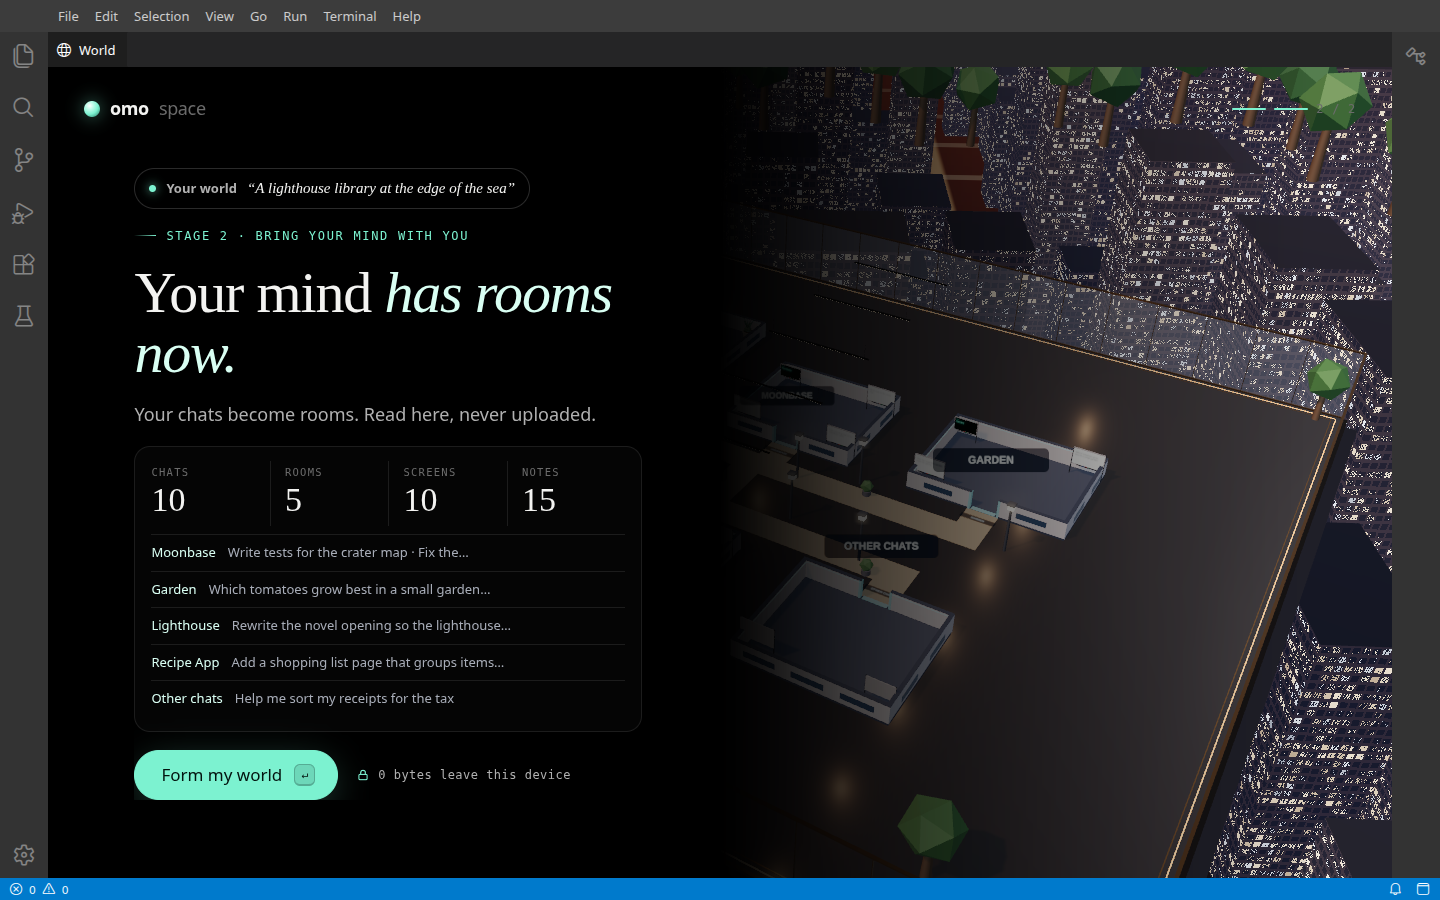
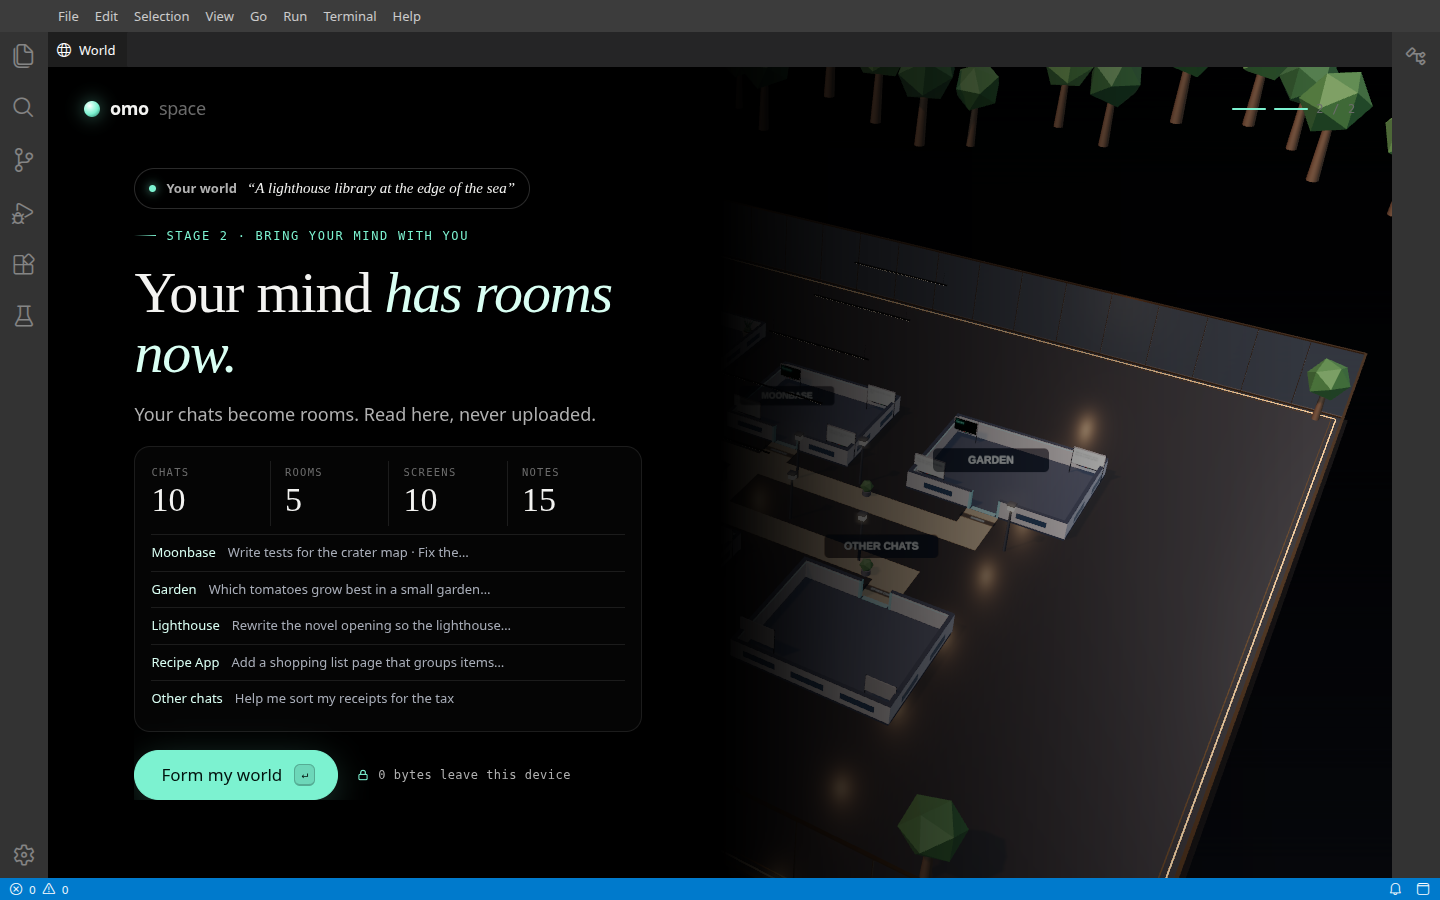
onboarding polish 2/6: no Manhattan behind the sentence — while the first minute is open the scene backdrop is a neutral dim gradient (RoomScene.setBackdrop('neutral')): the procedural city, dusk sky dome, tower facade and the style kit's city panorama are hidden, fog matches; 'Enter your world' res

Changed region(s): [[0.5312, 0.0622, 0.9688, 0.9956]]

diff --git a/omo/extension/src/browser/room-scene.ts b/omo/extension/src/browser/room-scene.ts
@@ -255,6 +255,9 @@ export class RoomScene {
     private stationNumbers = new Map<string, number>();
     private lights?: { hemi: THREE.HemisphereLight; sun: THREE.DirectionalLight; accent: THREE.PointLight };
     private skyFx?: SkylineFx; // sky:render — bloom + environment, skyline theme only
+    /** promise:onboarding — 'neutral' while the first minute is open: no city, sky or tower behind the sentence, a dim gradient instead. */
+    private backdrop: 'world' | 'neutral' = 'world';
+    private neutralSky?: THREE.CanvasTexture;
     /** sky:merge M1 — the baked style-kit shell: loader per kit, its loaded shell, and kits whose assets are missing. */
     private kitLoaders = new Map<string, SkylineKitLoader>();
     private kitShells = new Map<string, { root: THREE.Group; env: THREE.Texture }>();
@@ -480,6 +483,7 @@ export class RoomScene {
         }
         if (this.skyFx) this.skyFx.useEnvironment(kitShell?.env); // sky:merge M1 — the kit's baked reflection probe replaces the generic room environment
         this.applyKitView(); // world-ui (1, 3)
+        this.applyBackdrop(); // promise:onboarding
         const pk = pathsKey(world.shell, world.entities); // w3:look (7) — plaza, paths, lamps (open worlds)
         if (pk !== this.pathsKey) {
             if (this.pathsRoot) { this.worldRoot.remove(this.pathsRoot); disposeTree(this.pathsRoot); this.pathsRoot = undefined; }
@@ -543,7 +547,40 @@ export class RoomScene {
     /** w3:render — background + fog colour: the classic room backdrop, or the open world's sky. */
     private applySky(world: WorldSpec): void {
         const jungle = world.shell.theme === 'jungle', color = world.shell.theme === 'skyline' ? SKYLINE_COLORS.background : world.shell.open ? openSky(jungle) : shellColors(jungle).background; // sky:render
+        if (this.backdrop === 'neutral') { this.scene.background = this.neutralGradient(); (this.scene.fog as THREE.Fog).color.set('#0e1015'); return; } // promise:onboarding
+        if (!(this.scene.background instanceof THREE.Color)) this.scene.background = new THREE.Color(color);
         (this.scene.background as THREE.Color).set(color); (this.scene.fog as THREE.Fog).color.set(color);
+    }
+    /**
+     * promise:onboarding — the backdrop behind the first minute. 'neutral' hides the planned city, the dusk sky dome, our
+     * tower's facade and a style kit's city panorama, and paints a dim neutral gradient (with matching fog), so the
+     * sentence ("a lighthouse library at the edge of the sea") never sits in front of Manhattan. 'world' = as planned.
+     */
+    setBackdrop(mode: 'world' | 'neutral'): void {
+        if (this.disposed || mode === this.backdrop) return;
+        this.backdrop = mode;
+        if (this.world) { this.applySky(this.world); this.applyBackdrop(); }
+    }
+    private applyBackdrop(): void {
+        if (!this.renderer) return;
+        const neutral = this.backdrop === 'neutral';
+        let shown = 0;
+        this.shellRoot?.traverse(node => {
+            if (!/^omo-(skyline-(city|sky|tower)|kit-backdrop)$/.test(node.name)) return;
+            node.visible = !neutral; if (node.visible) shown++;
+        });
+        const canvas = this.renderer.domElement;
+        canvas.dataset.backdrop = this.backdrop; canvas.dataset.backdropCity = String(shown); // test hooks
+        this.invalidate();
+    }
+    private neutralGradient(): THREE.CanvasTexture {
+        if (this.neutralSky) return this.neutralSky;
+        const c = document.createElement('canvas'); c.width = 4; c.height = 256;
+        const g = c.getContext('2d')!, grad = g.createLinearGradient(0, 0, 0, 256);
+        grad.addColorStop(0, '#07080b'); grad.addColorStop(0.55, '#0e1015'); grad.addColorStop(1, '#16181d');
+        g.fillStyle = grad; g.fillRect(0, 0, 4, 256);
+        const t = new THREE.CanvasTexture(c); t.colorSpace = THREE.SRGBColorSpace; this.neutralSky = t;
+        return t;
     }
     /** sky:render — skyline theme on/off: dusk lights, far haze, bloom + environment. */
     private applySkyline(on: boolean): void {
@@ -559,6 +596,7 @@ export class RoomScene {
     }
     private applyTheme(jungle: boolean): void {
         const colors = shellColors(jungle);
+        if (!(this.scene.background instanceof THREE.Color)) this.scene.background = new THREE.Color(colors.background); // promise:onboarding (neutral gradient)
         (this.scene.background as THREE.Color).set(colors.background); (this.scene.fog as THREE.Fog).color.set(colors.background);
         if (this.lights) { this.lights.hemi.color.setHex(colors.hemiSky); this.lights.sun.color.setHex(colors.sun); this.lights.accent.color.setHex(colors.accent); }
     }
@@ -1421,6 +1459,7 @@ export class RoomScene {
         this.disposed=true;cancelAnimationFrame(this.focusFrame);for(const s of [...this.terminalSurfaces.values(),...this.linkedSurfaces.values()])s.source?.dispose();this.walker?.dispose();cancelAnimationFrame(this.frame);if(this.sharpTimer!==undefined)window.clearTimeout(this.sharpTimer);this.scheduled=false;this.observer?.disconnect();this.cleanup.forEach(fn=>fn());this.labels.forEach(label=>label.remove());
         this.scene.traverse(node=>{if(node instanceof THREE.Mesh){node.geometry.dispose();const ms=Array.isArray(node.material)?node.material:[node.material];ms.forEach(m=>{(m as THREE.MeshStandardMaterial).map?.dispose();m.dispose();});}});
         this.skyFx?.dispose();this.skyFx=undefined; // sky:render
+        this.neutralSky?.dispose();this.neutralSky=undefined; // promise:onboarding
         for(const k of this.kitShells.values()){if(k.root.parent!==this.worldRoot)disposeTree(k.root);k.env.dispose();}this.kitShells.clear(); // sky:merge M1
         if(this.renderer){this.renderer.dispose();this.renderer.domElement.remove();}
     }

diff --git a/omo/extension/src/browser/omo-world-widget.tsx b/omo/extension/src/browser/omo-world-widget.tsx
@@ -1043,6 +1043,7 @@ export class OmoWorldWidget extends ReactWidget {
     protected render(): React.ReactNode {
         if (!this.initialized) return <div className="omo-loading">Opening your workspace…</div>;
         const theme = this.configuring ? this.draftTheme : this.room!.theme;
+        this.worldScene?.setBackdrop(this.firstMinuteShown() ? 'neutral' : 'world'); // promise:onboarding — no city behind the first minute (idempotent)
         const layout = this.configuring ? this.draftLayout : this.room?.layout ?? 'classic';
         const taskSourceUri=this.project?.toString();
         return <main className={`omo-root omo-${theme}`} data-testid="omo-world" data-project-uri={this.project?.toString()||''} data-configured={this.room ? 'true' : 'false'} data-active-station={this.activeMode} data-immersive={String(this.immersive.mode.active)} data-first-minute={this.firstMinuteShown() ? 'true' : undefined}>
@@ -1108,7 +1109,7 @@ export class OmoWorldWidget extends ReactWidget {
                     {this.room && !this.configuring && !this.immersive.mode.active && <div className="omo-console-dock" onPointerDownCapture={()=>this.worldScene?.releaseTyping()}>
                         {this.dockPieces(taskSourceUri)}
                     </div>}
-                    <SceneView key={`${theme}:${layout}:${this.configuring ? this.draftKit : this.room?.kit ?? 'hermes-desk'}:${this.presetRevision}`} theme={theme} layout={layout} kit={this.configuring ? this.draftKit : this.room?.kit ?? 'hermes-desk'} camera={(this.configuring ? this.draftCamera : undefined) ?? this.room?.camera ?? CAMERA} onSelect={this.selectStation} onTextSelect={this.chooseStation} onCamera={this.cameraChanged} walk={!this.configuring} terminalFrames={this.monitors} webFrame={this.webState.frame} onInstance={scene=>{this.worldScene=scene;this.drawStoredWorld(scene);/* w2:render */this.pushLinkedFrames();/* w2:runtime */scene?.setPeers(this.presenceState.snapshot?.members.filter(m=>m.id!==this.presenceState.snapshot?.selfId)??[]);scene?.setMirrorFrame(this.mirrorMonitor);if(this.codeReviewFrame)scene?.setCodeReview(this.codeReviewFrame);if(this.configuring&&!this.onboardingClassic&&this.onboardingWorld)scene?.setWorld(this.onboardingWorld);/* w2:onboard; t2:regress: not under the classic form */if(this.configuring&&this.onboardingClassic&&this.draftWorld)scene?.setWorld({...this.draftWorld,shell:{...this.draftWorld.shell,theme:this.draftTheme}});/* t3:polish2: Customise preview draws the template/imported world */}} onInput={this.terminalInput} onPaste={this.pasteInput} onScroll={this.worldScroll} onWebScroll={this.webScroll} onShortcut={this.monitorShortcut} onOpenLink={this.openTerminalLink} onPose={this.poseChanged} onMessage={text=>{this.feedback=text;this.update();}}>
+                    <SceneView key={`${theme}:${layout}:${this.configuring ? this.draftKit : this.room?.kit ?? 'hermes-desk'}:${this.presetRevision}`} theme={theme} layout={layout} kit={this.configuring ? this.draftKit : this.room?.kit ?? 'hermes-desk'} camera={(this.configuring ? this.draftCamera : undefined) ?? this.room?.camera ?? CAMERA} onSelect={this.selectStation} onTextSelect={this.chooseStation} onCamera={this.cameraChanged} walk={!this.configuring} terminalFrames={this.monitors} webFrame={this.webState.frame} onInstance={scene=>{this.worldScene=scene;scene?.setBackdrop(this.firstMinuteShown()?'neutral':'world');/* promise:onboarding */this.drawStoredWorld(scene);/* w2:render */this.pushLinkedFrames();/* w2:runtime */scene?.setPeers(this.presenceState.snapshot?.members.filter(m=>m.id!==this.presenceState.snapshot?.selfId)??[]);scene?.setMirrorFrame(this.mirrorMonitor);if(this.codeReviewFrame)scene?.setCodeReview(this.codeReviewFrame);if(this.configuring&&!this.onboardingClassic&&this.onboardingWorld)scene?.setWorld(this.onboardingWorld);/* w2:onboard; t2:regress: not under the classic form */if(this.configuring&&this.onboardingClassic&&this.draftWorld)scene?.setWorld({...this.draftWorld,shell:{...this.draftWorld.shell,theme:this.draftTheme}});/* t3:polish2: Customise preview draws the template/imported world */}} onInput={this.terminalInput} onPaste={this.pasteInput} onScroll={this.worldScroll} onWebScroll={this.webScroll} onShortcut={this.monitorShortcut} onOpenLink={this.openTerminalLink} onPose={this.poseChanged} onMessage={text=>{this.feedback=text;this.update();}}>
                         {/* omo immersive lane (mount hook); world-ui: immersive shows the top bar (main level), not the launch buttons */}{this.room && !this.configuring && !this.immersive.mode.active
                             && <><BuildToggle build={this.buildMode}/>{/* w2:build */}<button type="button" className="omo-immersive-launch" data-testid="immersive-launch" title="Immersive world (G)" onMouseDown={event => event.preventDefault()} onClick={this.toggleImmersiveButton}>
                                 <Icon name="expand" size={14} />Immersive world <kbd>G</kbd></button></>}

diff --git a/omo/extension/src/browser/world-scene-skyline.ts b/omo/extension/src/browser/world-scene-skyline.ts
@@ -263,7 +263,7 @@ export function buildSkylineShell(shell: WorldShell, blocks: readonly Footprint[
     add(root, new THREE.BoxGeometry(W + 0.6, 0.9, D + 0.6), std(0x0d0e12, 0.6, 0.2), 0, -0.65, 0, false);
     const towerH = SKYLINE_ALTITUDE - 1.1;
     const tower = new THREE.BoxGeometry(W + 2, towerH, D + 2); tower.translate(0, -towerH / 2 - 1.1, 0);
-    root.add(noRay(new THREE.Mesh(tower, facadeMaterial(camera, 0.4))));
+    const facade = new THREE.Mesh(tower, facadeMaterial(camera, 0.4)); facade.name = 'omo-skyline-tower'; root.add(noRay(facade));
     // Ceiling (faces down only, so the overview sees in from above) with warm coves.
     const ceiling = new THREE.Mesh(new THREE.PlaneGeometry(W, D), std(0x3a3833, 0.85, 0.0));
     ceiling.rotation.x = Math.PI / 2; ceiling.position.y = H; ceiling.receiveShadow = true; root.add(ceiling);
